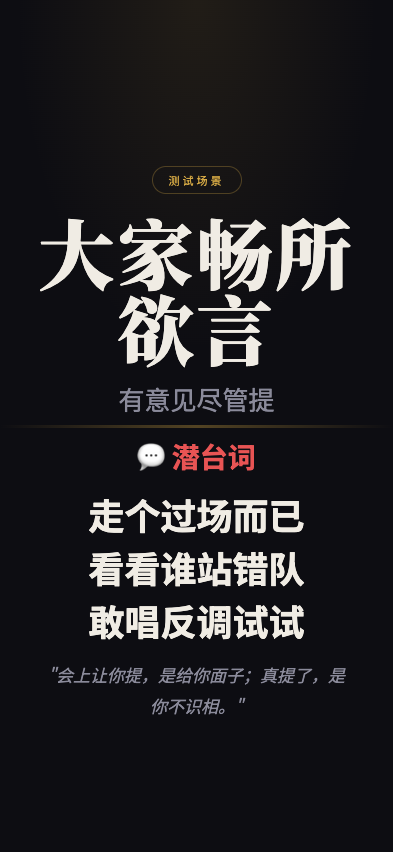
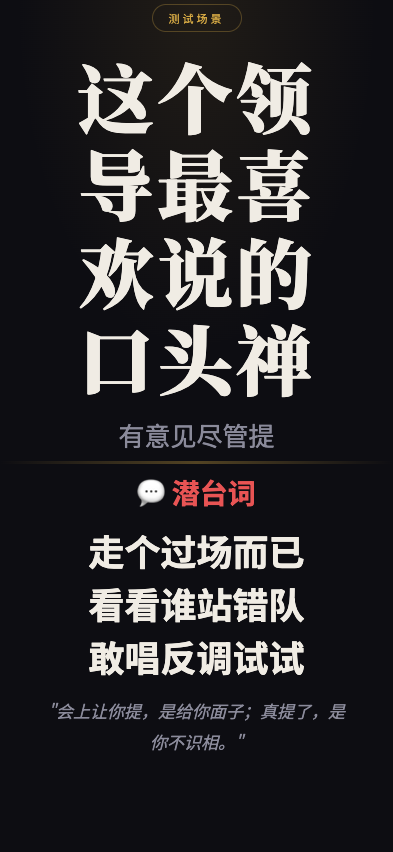
feat: 职场生存法则 screenshot - test-layout-v1

Changed region(s): [[0.1221, 0.061, 0.8855, 0.885], [0.8244, 0.7629, 0.8855, 0.8545], [0.4275, 0.0, 0.5802, 0.0305]]

diff --git a/wuliao-tools/tools/biz-speak/scenes/test-layout-v1.html b/wuliao-tools/tools/biz-speak/scenes/test-layout-v1.html
@@ -29,7 +29,7 @@
   }
   .top { flex:1; display:flex; flex-direction:column; align-items:center; justify-content:flex-end; padding:4px 28px 8px; position:relative; z-index:1; }
   .tag { font-size:11px; letter-spacing:3px; color:var(--gold); border:1px solid rgba(212,168,67,0.3); padding:5px 16px; border-radius:50px; margin-bottom:20px; }
-  .main-title { font-family:'Noto Serif SC'; font-size:76px; font-weight:900; text-align:center; line-height:1.0; letter-spacing:3px; }
+  .main-title { font-family:'Noto Serif SC'; font-size:76px; font-weight:900; text-align:center; line-height:1.15; letter-spacing:3px; max-width:92%; overflow-wrap:break-word; }
   .sub-title { font-size:26px; color:var(--text-dim); text-align:center; margin-top:14px; }
   .divider { width:100%; height:3px; background:linear-gradient(90deg,transparent,var(--gold),transparent); opacity:0.35; flex-shrink:0; position:relative; z-index:1; }
   .bottom { flex:1; display:flex; flex-direction:column; align-items:center; justify-content:flex-start; padding:8px 28px 4px; position:relative; z-index:1; }
@@ -42,7 +42,7 @@
 <body>
   <div class="top">
     <div class="tag">测试场景</div>
-    <div class="main-title">大家畅所欲言</div>
+    <div class="main-title">这个领导最喜欢说的口头禅</div>
     <div class="sub-title">有意见尽管提</div>
   </div>
   <div class="divider"></div>
